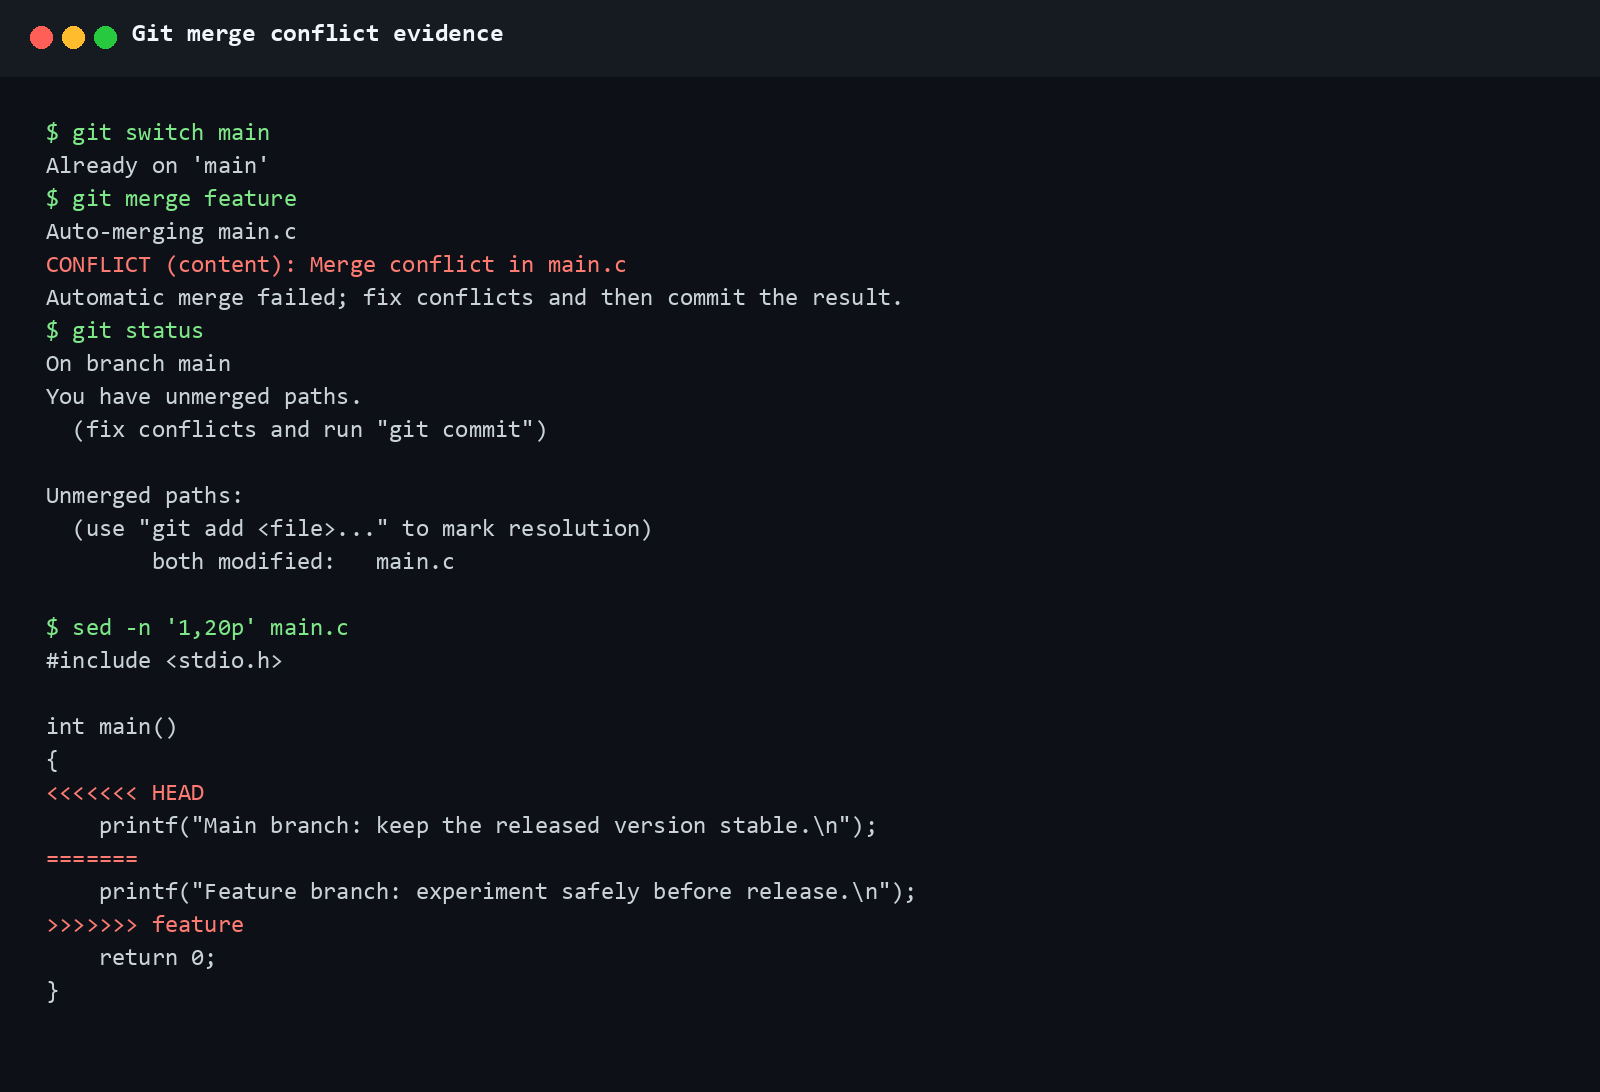
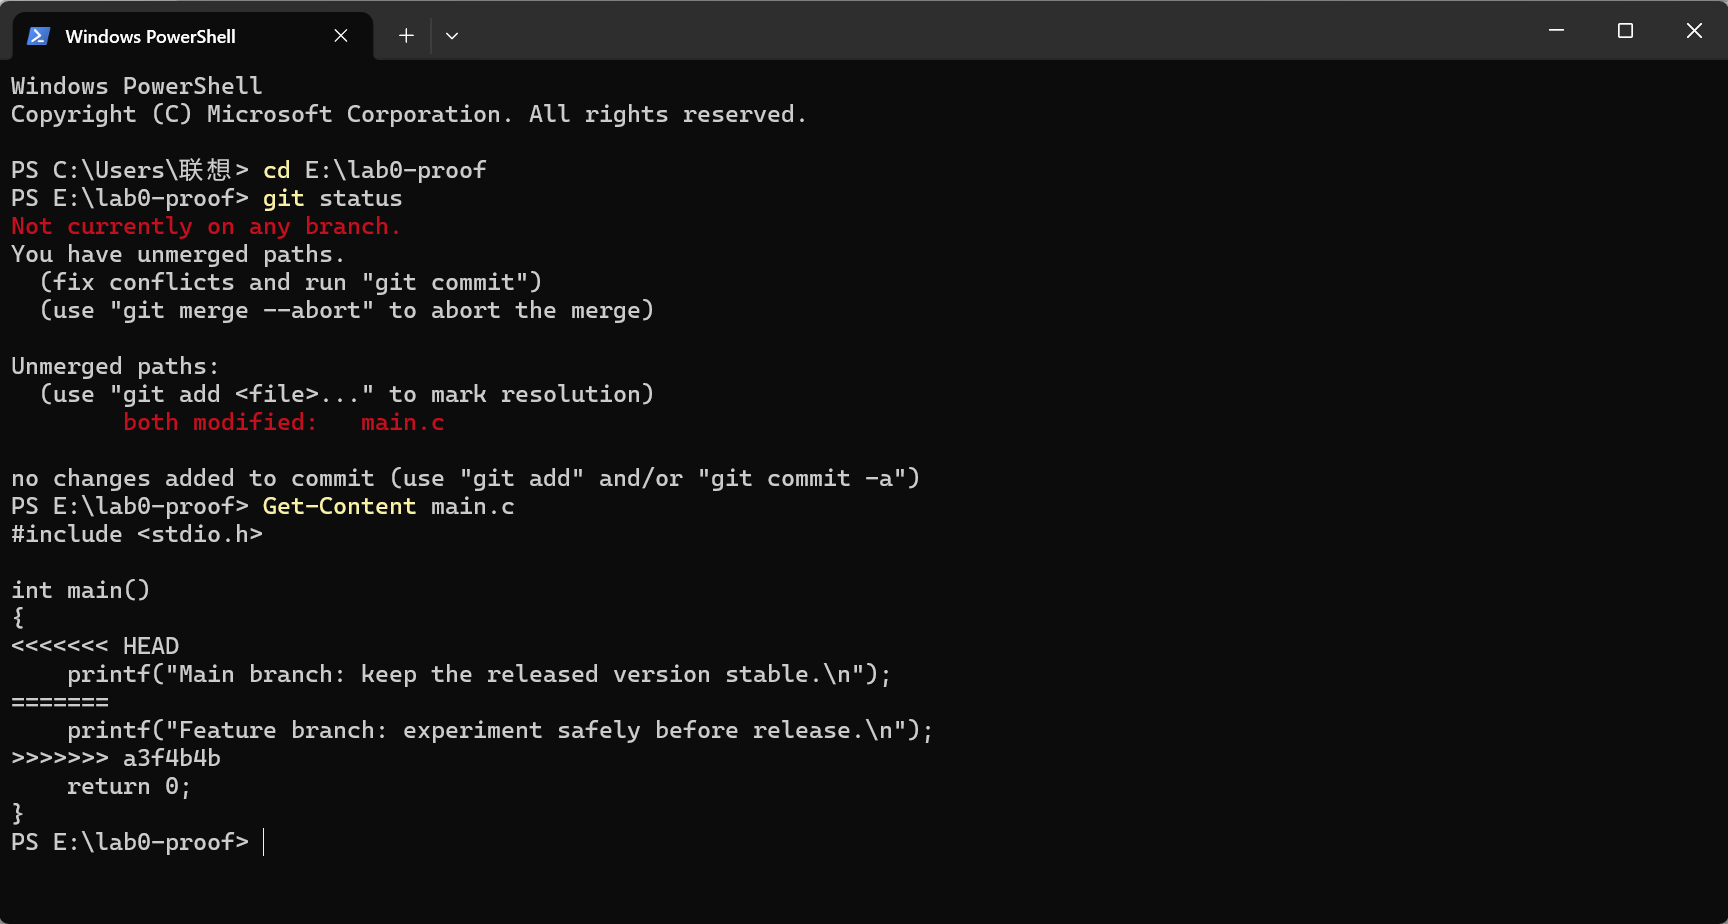
docs(report): add authentic terminal evidence

diff --git a/lab0-report.md b/lab0-report.md
@@ -128,9 +128,16 @@ CONFLICT (content): Merge conflict in main.c
 Automatic merge failed; fix conflicts and then commit the result.
 ```
 
-此时 `main.c` 中出现了 `<<<<<<< HEAD`、`=======` 和 `>>>>>>> feature` 三个冲突标记。下面的图片是依据本次真实终端记录生成的可读图；同一内容的原始文本紧随其后，便于搜索和复核：
+此时 `main.c` 中出现了 `<<<<<<< HEAD`、`=======` 和 `>>>>>>> feature` 三个冲突标记。为在不改动主工作区的情况下再次核验，我从 `main` 侧的冲突前提交建立临时 worktree，并合并 `feature` 侧提交：
 
-![Git 合并冲突证据](assets/merge-conflict.png)
+```powershell
+git worktree add E:\lab0-proof 2a4e09d
+git -C E:\lab0-proof merge a3f4b4b
+```
+
+合并再次产生相同的内容冲突。下面是复现现场的真实 Windows PowerShell 截图，包含 `git status` 输出和 `main.c` 中的冲突标记：
+
+![真实终端中的 Git 合并冲突](assets/merge-conflict.png)
 
 为了让图片中的内容仍可搜索和核验，我同时保留了[合并冲突的原始终端文本](assets/merge-conflict.txt)。
 
@@ -154,11 +161,11 @@ On branch main
 nothing to commit, working tree clean
 ```
 
-并且提交图同时保留了 `main` 和 `feature` 两条历史。下面同样先给出依据真实终端记录生成的可读图：
+并且提交图同时保留了 `main` 和 `feature` 两条历史。下面是主仓库中运行 `git status` 和 `git log --graph --oneline --decorate --all` 后得到的真实 Windows PowerShell 截图；其中可以直接看到双父合并提交以及 `main`、`feature` 两条历史重新汇合：
 
-![冲突解决后的提交历史](assets/merge-resolved.png)
+![真实终端中的冲突解决后提交历史](assets/merge-resolved.png)
 
-对应的可搜索版本见[冲突解决后的原始终端文本](assets/merge-resolved.txt)。从提交图中的分叉、两个父提交和重新汇合可以确认，这不是一次 fast-forward 合并。
+对应的可搜索版本见[冲突解决后的原始终端文本](assets/merge-resolved.txt)。从提交图中的分叉、两个父提交和重新汇合可以确认，这不是一次 fast-forward 合并。截图完成后，我执行 `git merge --abort` 并移除了临时 worktree；主仓库的代码和提交历史没有被复现操作改动。
 
 ### 3.5 连接个人 GitHub 仓库
 
